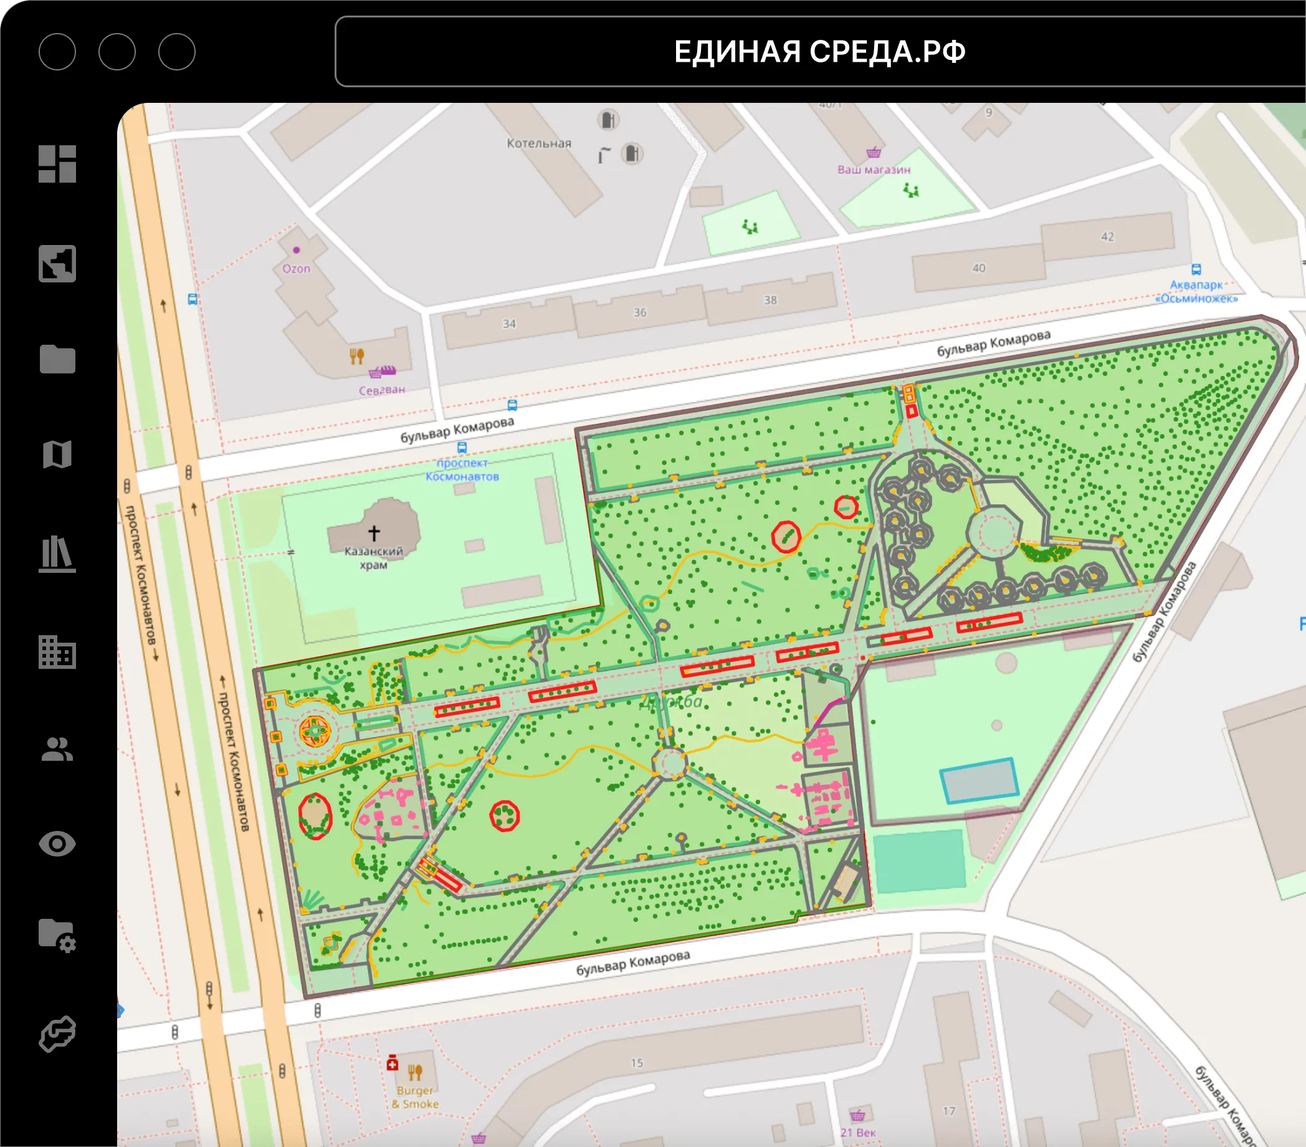
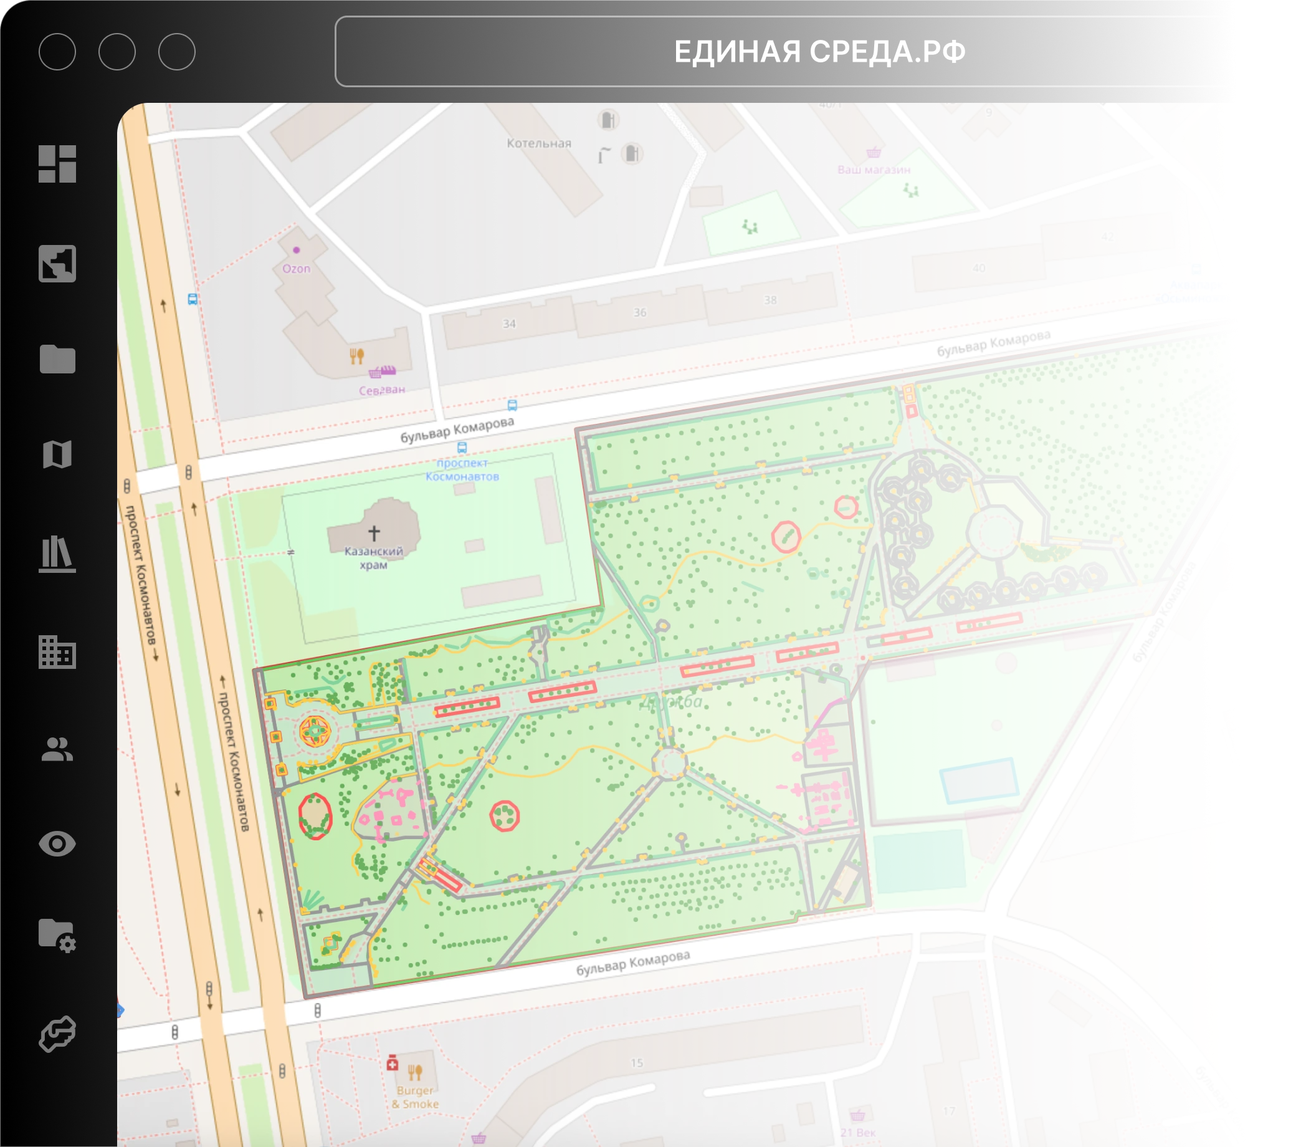
feat: partners wall + mobile horizontal marquee + masks

diff --git a/src/components/SplitStyleCards.tsx b/src/components/SplitStyleCards.tsx
@@ -6,116 +6,21 @@ import { motion, useScroll, useTransform, useSpring, MotionValue } from 'framer-
 type Card = { title: string; subtitle: string; image: string };
 
 const CARDS: Card[] = [
-  { title: 'Контролируйте работы удалённо', subtitle: 'Подрядчики сами вносят данные — вы принимаете работы онлайн', image: '/img/card1.png' },
-  { title: 'Актуальные данные 24/7', subtitle: 'Реестры всегда под рукой — для отчетов и проверок', image: '/img/card2.png' },
-  { title: 'ГИС-платформа для всех данных', subtitle: 'Объекты с координатами, границами, атрибутами на карте', image: '/img/card3.png' },
-  { title: 'Прозрачность действий', subtitle: 'Отслеживайте все изменения в системе', image: '/img/card4.png' },
-  { title: 'Настраивайте доступы', subtitle: 'Гибко управляйте правами: администраторы, проверяющие, подрядчики', image: '/img/card5.png' },
+  { title: 'Контролируйте работы удалённо', subtitle: 'Подрядчики сами вносят данные — вы принимаете работы онлайн', image: '/img/card1.webp' },
+  { title: 'Актуальные данные 24/7', subtitle: 'Реестры всегда под рукой — для отчетов и проверок', image: '/img/card2.webp' },
+  { title: 'ГИС-платформа для всех данных', subtitle: 'Объекты с координатами, границами, атрибутами на карте', image: '/img/card3.webp' },
+  { title: 'Прозрачность действий', subtitle: 'Отслеживайте все изменения в системе', image: '/img/card4.webp' },
+  { title: 'Настраивайте доступы', subtitle: 'Гибко управляйте правами: администраторы, проверяющие, подрядчики', image: '/img/card5.webp' },
 ];
 
+// пружина для анимаций
 const springCfg = { stiffness: 140, damping: 24, mass: 0.6 };
 
-/* умный снэп-скролл для колеса мыши (тачпад не трогаем) */
-function useSmartSnapScroll(opts: {
-  containerRef: React.RefObject<HTMLDivElement | null>;
-  steps: number;        // 0..steps (обычно = items.length)
-  cooldownMs?: number;
-}) {
-  const { containerRef, steps, cooldownMs = 800 } = opts;
-  const [index, setIndex] = useState(0);
-  const busyRef = useRef(false);
-  const modeRef = useRef<'wheel-mouse' | 'trackpad' | null>(null);
-
-  const snapTo = (i: number) => {
-    const el = containerRef.current;
-    if (!el) return;
-    const sectionTop = el.getBoundingClientRect().top + window.scrollY;
-    const totalScrollable = el.offsetHeight - window.innerHeight;
-    const target = sectionTop + totalScrollable * (i / steps);
-    busyRef.current = true;
-    window.scrollTo({ top: target, behavior: 'smooth' });
-    window.setTimeout(() => (busyRef.current = false), cooldownMs);
-  };
-
-  useEffect(() => {
-    const onWheel = (e: WheelEvent) => {
-      const el = containerRef.current;
-      if (!el) return;
-
-      const rect = el.getBoundingClientRect();
-      const inView = rect.top <= window.innerHeight && rect.bottom >= 0;
-      if (!inView) return;
-
-      if (busyRef.current) {
-        e.preventDefault();
-        return;
-      }
-
-      const isMouseWheel = e.deltaMode === 1 || Math.abs(e.deltaY) > 60;
-      if (modeRef.current == null) {
-        modeRef.current = isMouseWheel ? 'wheel-mouse' : 'trackpad';
-      } else if (isMouseWheel) {
-        modeRef.current = 'wheel-mouse';
-      }
-
-      if (modeRef.current === 'wheel-mouse') {
-        const dir = e.deltaY > 0 ? 1 : -1;
-
-        // если дальше листать нельзя — не перехватываем, чтобы уйти к следующей секции
-        if (dir > 0 && index >= steps) return;
-        if (dir < 0 && index <= 0) return;
-
-        e.preventDefault();
-        const next = Math.min(steps, Math.max(0, index + dir));
-        if (next !== index) {
-          setIndex(next);
-          snapTo(next);
-        }
-      }
-    };
-
-    window.addEventListener('wheel', onWheel, { passive: false });
-    return () => window.removeEventListener('wheel', onWheel as any);
-  }, [index, steps, containerRef, cooldownMs]);
-
-  // клавиатура — тоже даём выйти за границы секции
-  useEffect(() => {
-    const onKey = (e: KeyboardEvent) => {
-      const nextKeys = ['ArrowDown', 'ArrowRight', 'PageDown', ' '];
-      const prevKeys = ['ArrowUp', 'ArrowLeft', 'PageUp'];
-
-      if (nextKeys.includes(e.key)) {
-        if (index >= steps) return;
-        e.preventDefault();
-        const next = Math.min(steps, index + 1);
-        setIndex(next);
-        snapTo(next);
-      } else if (prevKeys.includes(e.key)) {
-        if (index <= 0) return;
-        e.preventDefault();
-        const prev = Math.max(0, index - 1);
-        setIndex(prev);
-        snapTo(prev);
-      } else if (e.key === 'Home') {
-        e.preventDefault();
-        setIndex(0);
-        snapTo(0);
-      } else if (e.key === 'End') {
-        e.preventDefault();
-        setIndex(steps);
-        snapTo(steps);
-      }
-    };
-    window.addEventListener('keydown', onKey);
-    return () => window.removeEventListener('keydown', onKey);
-  }, [index, steps]);
-}
-
-/* главный компонент */
 const SplitStacksClean: React.FC<{ items?: Card[] }> = ({ items = CARDS }) => {
   const total = items.length;
   const pinRef = useRef<HTMLDivElement | null>(null);
 
+  // адаптивность от высоты окна
   const [vh, setVh] = useState<number>(typeof window === 'undefined' ? 800 : window.innerHeight);
   useEffect(() => {
     const onResize = () => setVh(window.innerHeight);
@@ -124,11 +29,13 @@ const SplitStacksClean: React.FC<{ items?: Card[] }> = ({ items = CARDS }) => {
     return () => window.removeEventListener('resize', onResize);
   }, []);
 
-  const BOTTOM_BASE = Math.round(vh * 0.52);
-  const BOTTOM_GAP  = Math.round(vh * 0.30);
-  const TOP_GAP     = 18;
-  const CANVAS_H    = Math.max(vh * 0.66, 560);
+  // параметры стопок
+  const BOTTOM_BASE = Math.round(vh * 0.52); // старт нижней ближайшей карточки (крупный зазор)
+  const BOTTOM_GAP  = Math.round(vh * 0.30); // шаг нижней стопки (явные ступени)
+  const TOP_GAP     = 18;                    // шаг верхней компактной стопки
+  const CANVAS_H    = Math.max(vh * 0.66, 560); // высота области движения
 
+  // высота секции — держим скролл
   const sectionHeightVh = useMemo(() => (total + 1) * 100, [total]);
 
   const { scrollYProgress } = useScroll({
@@ -136,17 +43,15 @@ const SplitStacksClean: React.FC<{ items?: Card[] }> = ({ items = CARDS }) => {
     offset: ['start start', 'end end'],
   });
 
+  // плавный глобальный прогресс t ∈ [0..N]
   const tRaw = useTransform(scrollYProgress, (v) => v * total);
   const t = useSpring(tRaw, springCfg);
-
-  // включаем умный снэп для колеса
-  useSmartSnapScroll({ containerRef: pinRef, steps: total, cooldownMs: 800 });
 
   return (
     <section className="relative w-full bg-[#F6F7F9] py-6 md:py-10">
       <div ref={pinRef} className="relative w-full" style={{ height: `calc(${sectionHeightVh}vh)` }}>
-        <div className="sticky top-0 h-[20svh]">
-          {/* Заголовок */}
+        <div className="sticky top-0 h-[100svh]">
+          {/* Заголовок (уменьшил верхний внутренний отступ) */}
           <div className="flex flex-col items-center text-center pt-4 md:pt-6">
             <h2 className="text-black font-bold leading-[1.1] text-[34px] md:text-[46px] lg:text-[52px]">
               Все возможности в одном месте
@@ -156,20 +61,22 @@ const SplitStacksClean: React.FC<{ items?: Card[] }> = ({ items = CARDS }) => {
             </p>
           </div>
 
-          {/* Стек карточек */}
+          {/* Область стека (уменьшил зазор сверху) */}
           <div className="mt-4 md:mt-6 flex items-start justify-center">
             <div className="relative w-[92vw] max-w-[980px]" style={{ height: CANVAS_H }}>
               {items.map((card, i) => {
+                // плавный y через пружину
                 const yBase: MotionValue<number> = useTransform(t, (v) => {
                   const k = Math.floor(v);
-                  const f = v - k;
-                  if (i < k) return -(k - 1 - i) * TOP_GAP;     // верхняя компактная стопка
-                  if (i === k) return 0;                         // активная
-                  if (i === k + 1) return (1 - f) * BOTTOM_BASE; // подъём из нижней
-                  return BOTTOM_BASE + (i - (k + 1)) * BOTTOM_GAP; // нижняя ступенчатая
+                  const f = v - k; // 0..1
+                  if (i < k) return - (k - 1 - i) * TOP_GAP;                  // верхняя компактная стопка
+                  if (i === k) return 0;                                       // активная верхняя
+                  if (i === k + 1) return (1 - f) * BOTTOM_BASE;               // подъём из нижней
+                  return BOTTOM_BASE + (i - (k + 1)) * BOTTOM_GAP;             // нижняя ступенчатая стопка
                 });
                 const y = useSpring(yBase, springCfg);
 
+                // порядок наложения
                 const z = useTransform(t, (v) => {
                   const k = Math.floor(v);
                   if (i === k + 1) return 3;
@@ -182,11 +89,24 @@ const SplitStacksClean: React.FC<{ items?: Card[] }> = ({ items = CARDS }) => {
                   <motion.article
                     key={i}
                     className="absolute left-1/2 -translate-x-1/2 will-change-transform"
-                    style={{ bottom: 0, y, zIndex: (z as unknown as number), width: '100%' }}
+                    style={{
+                      bottom: 0,
+                      y,
+                      zIndex: z as unknown as number,
+                      width: '100%',
+                    }}
                   >
+                    {/* Белая карточка: без тени, ровная граница */}
                     <div className="relative w-full rounded-3xl bg-white border border-[#E7ECF4] overflow-hidden">
-                      <div className="grid grid-cols-1 md:grid-cols-2 md:[aspect-ratio:2/1]" style={{ minHeight: 300 }}>
-                        {/* Текст */}
+                      {/* Ровное деление: на мобиле — одна колонка (картинка под текстом), на md+ — 2 колонки */}
+                      <div
+                        className="
+                          grid grid-cols-1 md:grid-cols-2
+                          md:[aspect-ratio:2/1]
+                        "
+                        style={{ minHeight: 300 }}
+                      >
+                        {/* Текст — равные внутренние отступы */}
                         <div className="flex items-center">
                           <div className="px-6 pt-6 pb-4 md:px-10 md:py-10">
                             <h3 className="text-black font-semibold leading-[1.15] text-[22px] sm:text-[26px] md:text-[32px] lg:text-[36px]">
@@ -197,7 +117,8 @@ const SplitStacksClean: React.FC<{ items?: Card[] }> = ({ items = CARDS }) => {
                             </p>
                           </div>
                         </div>
-                        {/* Изображение */}
+
+                        {/* Изображение — БЕЗ нижних отступов, прижато к низу */}
                         <div className="flex items-end justify-center px-2 pt-2 pb-0 md:px-2 md:pt-2 md:pb-0">
                           <img
                             src={card.image}
@@ -214,6 +135,7 @@ const SplitStacksClean: React.FC<{ items?: Card[] }> = ({ items = CARDS }) => {
             </div>
           </div>
 
+          {/* нижний отступ секции уменьшен */}
           <div className="h-8 md:h-10" />
         </div>
       </div>

diff --git a/src/app/documents/page.tsx b/src/app/documents/page.tsx
@@ -12,7 +12,6 @@ export default function DocumentsPage() {
     "Politika_ispolzovaniya_failov_kukis_SFERA.pdf": "Политика использования файлов кукис СФЕРА.",
     "Politika_obrabotki_personalnikh_dannikh_posetitelei_saita.pdf": "Политика обработки персональных данных посетителей сайта.",
     "Politika_operatora_v_otnoshenii_obrabotki_personalnikh_dannikh.pdf": "Политика оператора в отношении обработки персональных данных.",
-    "rukovodstvo-polzovatelya (1).pdf": "Руководство пользователя (версия 1).",
     "rukovodstvo-polzovatelya.pdf": "Руководство пользователя системы Единая Среда.",
     "Soglasie_fiz_litsa_na_razmeshchenie_informatsii_v_Internete_SFERA.pdf": "Согласие физ. лица на размещение информации в Интернете.",
     "Soglasie_na_obrabotku_dannikh_SFERA.pdf": "Согласие на обработку данных СФЕРА.",
@@ -24,7 +23,6 @@ export default function DocumentsPage() {
     "Politika_ispolzovaniya_failov_kukis_SFERA.pdf": "Политика использования файлов кукис (PDF)",
     "Politika_obrabotki_personalnikh_dannikh_posetitelei_saita.pdf": "Политика обработки данных посетителей сайта (PDF)",
     "Politika_operatora_v_otnoshenii_obrabotki_personalnikh_dannikh.pdf": "Политика оператора по персональным данным (PDF)",
-    "rukovodstvo-polzovatelya (1).pdf": "Руководство пользователя (версия 1) (PDF)",
     "rukovodstvo-polzovatelya.pdf": "Руководство пользователя (PDF)",
     "Soglasie_fiz_litsa_na_razmeshchenie_informatsii_v_Internete_SFERA.pdf": "Согласие физ. лица на размещение информации (PDF)",
     "Soglasie_na_obrabotku_dannikh_SFERA.pdf": "Согласие на обработку данных СФЕРА (PDF)",
@@ -36,7 +34,6 @@ export default function DocumentsPage() {
     "Politika_ispolzovaniya_failov_kukis_SFERA.pdf": "https://ytevoelicxcecwpetcqj.supabase.co/storage/v1/object/public/docs/Politika_ispolzovaniya_failov_kukis_SFERA.pdf",
     "Politika_obrabotki_personalnikh_dannikh_posetitelei_saita.pdf": "https://ytevoelicxcecwpetcqj.supabase.co/storage/v1/object/public/docs/Politika_obrabotki_personalnikh_dannikh_posetitelei_saita.pdf",
     "Politika_operatora_v_otnoshenii_obrabotki_personalnikh_dannikh.pdf": "https://ytevoelicxcecwpetcqj.supabase.co/storage/v1/object/public/docs/Politika_operatora_v_otnoshenii_obrabotki_personalnikh_dannikh.pdf",
-    "rukovodstvo-polzovatelya (1).pdf": "https://ytevoelicxcecwpetcqj.supabase.co/storage/v1/object/public/docs/rukovodstvo-polzovatelya%20(1).pdf",
     "rukovodstvo-polzovatelya.pdf": "https://ytevoelicxcecwpetcqj.supabase.co/storage/v1/object/public/docs/rukovodstvo-polzovatelya.pdf",
     "Soglasie_fiz_litsa_na_razmeshchenie_informatsii_v_Internete_SFERA.pdf": "https://ytevoelicxcecwpetcqj.supabase.co/storage/v1/object/public/docs/Soglasie_fiz_litsa_na_razmeshchenie_informatsii_v_Internete_SFERA.pdf",
     "Soglasie_na_obrabotku_dannikh_SFERA.pdf": "https://ytevoelicxcecwpetcqj.supabase.co/storage/v1/object/public/docs/Soglasie_na_obrabotku_dannikh_SFERA.pdf",
@@ -48,7 +45,6 @@ export default function DocumentsPage() {
     { file: "Politika_ispolzovaniya_failov_kukis_SFERA.pdf", title: docTitles["Politika_ispolzovaniya_failov_kukis_SFERA.pdf"] },
     { file: "Politika_obrabotki_personalnikh_dannikh_posetitelei_saita.pdf", title: docTitles["Politika_obrabotki_personalnikh_dannikh_posetitelei_saita.pdf"] },
     { file: "Politika_operatora_v_otnoshenii_obrabotki_personalnikh_dannikh.pdf", title: docTitles["Politika_operatora_v_otnoshenii_obrabotki_personalnikh_dannikh.pdf"] },
-    { file: "rukovodstvo-polzovatelya (1).pdf", title: docTitles["rukovodstvo-polzovatelya (1).pdf"] },
     { file: "rukovodstvo-polzovatelya.pdf", title: docTitles["rukovodstvo-polzovatelya.pdf"] },
     { file: "Soglasie_fiz_litsa_na_razmeshchenie_informatsii_v_Internete_SFERA.pdf", title: docTitles["Soglasie_fiz_litsa_na_razmeshchenie_informatsii_v_Internete_SFERA.pdf"] },
     { file: "Soglasie_na_obrabotku_dannikh_SFERA.pdf", title: docTitles["Soglasie_na_obrabotku_dannikh_SFERA.pdf"] },
@@ -88,7 +84,7 @@ export default function DocumentsPage() {
           </div>
 
           <div className="mb-6">
-            <h3 className="text-xs font-semibold text-gray-500 uppercase tracking-wider mb-4 px-2">Документы проекта</h3>
+            <h3 className="text-xs font-semibold text-gray-500 uppercase tracking-wider mb-4 px-2">Документы проекта для «SaaS» решений</h3>
             <div className="space-y-2">
               {docFiles.map((doc) => (
                 <button
@@ -123,12 +119,12 @@ export default function DocumentsPage() {
             <span className="text-gray-600">Документация</span>
             <span>/</span>
             <span className="text-gray-700">
-              {activeDoc ? docTitles[activeDoc] : "Документы проекта"}
+              {activeDoc ? docTitles[activeDoc] : "Документы проекта для «SaaS» решений"}
             </span>
           </nav>
 
           <h1 className="text-3xl font-bold text-gray-900 mb-6">
-            {activeDoc ? docTitles[activeDoc] : "Документы проекта"}
+            {activeDoc ? docTitles[activeDoc] : "Документы проекта для «SaaS» решений"}
           </h1>
 
           <div className="text-gray-700 leading-relaxed mb-6">

diff --git a/src/components/SectionPlatformAndServices.tsx b/src/components/SectionPlatformAndServices.tsx
@@ -111,7 +111,7 @@ const RevealPanel: React.FC<{
       initial={false}
       animate={{ y: isOpen ? 0 : closedY }}
       transition={panelTransition}
-      className="hidden md:block absolute inset-x-0 bottom-0 z-30 h-[75%] rounded-t-2xl overflow-hidden bg-white"
+      className="hidden md:block absolute inset-x-0 bottom-0 z-30 h-[76%] rounded-t-2xl overflow-hidden bg-white"
       style={{ willChange: "transform" }}
     >
       <div className="relative h-auto w-auto p-1">
@@ -230,7 +230,7 @@ const SectionPlatformAndServices: React.FC = () => {
           {/* Параллакс-изображение справа-середины (desktop) */}
           <ParallaxFloatImage
             containerRef={leftRef}
-            src="/img/float-ui.png"
+            src="/img/float_ui.webp"
             isHover={openPreview}
             baseOpacity={0.55}
             hoverOpacity={0.8}
@@ -248,7 +248,7 @@ const SectionPlatformAndServices: React.FC = () => {
 
           {/* Белая панель 80% (только desktop) */}
           <RevealPanel
-            src="/img/platform-shot.png"
+            src="/img/platform_shot.webp"
             isOpen={openPreview}
             onConsult={openConsult}
             handleSize={24}

diff --git a/src/components/BlueTrustSection.tsx b/src/components/BlueTrustSection.tsx
@@ -27,7 +27,7 @@ const BlueTrustWithScreen: React.FC<{
   sideBgRight?: string;   // опциональный фоновый столбец справа (на всю высоту)
 }> = ({
   cards = DEFAULT_CARDS,
-  screenSrc = '/img/spec.png',
+  screenSrc = '/img/spec.webp',
   sideBgLeft,
   sideBgRight,
 }) => {
@@ -38,7 +38,7 @@ const BlueTrustWithScreen: React.FC<{
         {sideBgLeft && (
           <div
             aria-hidden
-            className="pointer-events-none absolute inset-y-0 left-0 z-0 hidden sm:block w-[26%] min-w-[180px] max-w-[360px]"
+            className="pointer-events-none absolute inset-y-0 left-0 z-0 hidden sm:block w-[26%] min-w-[180px] max-w-[320px]"
           >
             <img src={sideBgLeft} alt="" className="h-full w-full object-cover opacity-50" />
           </div>

diff --git a/src/components/HeroSection.tsx b/src/components/HeroSection.tsx
@@ -30,7 +30,7 @@ const HeroSection: React.FC = () => {
           {/* Правая часть: изображение (только для мобильных, на десктопе абсолютное) */}
           <div className="flex-1 w-full h-full relative flex justify-center items-end lg:hidden z-10">
             <Image
-              src="/img/heroes.png"
+              src="/img/heroes_1.webp"
               alt="Абстрактная иллюстрация цифрового управления"
               width={700}
               height={500}
